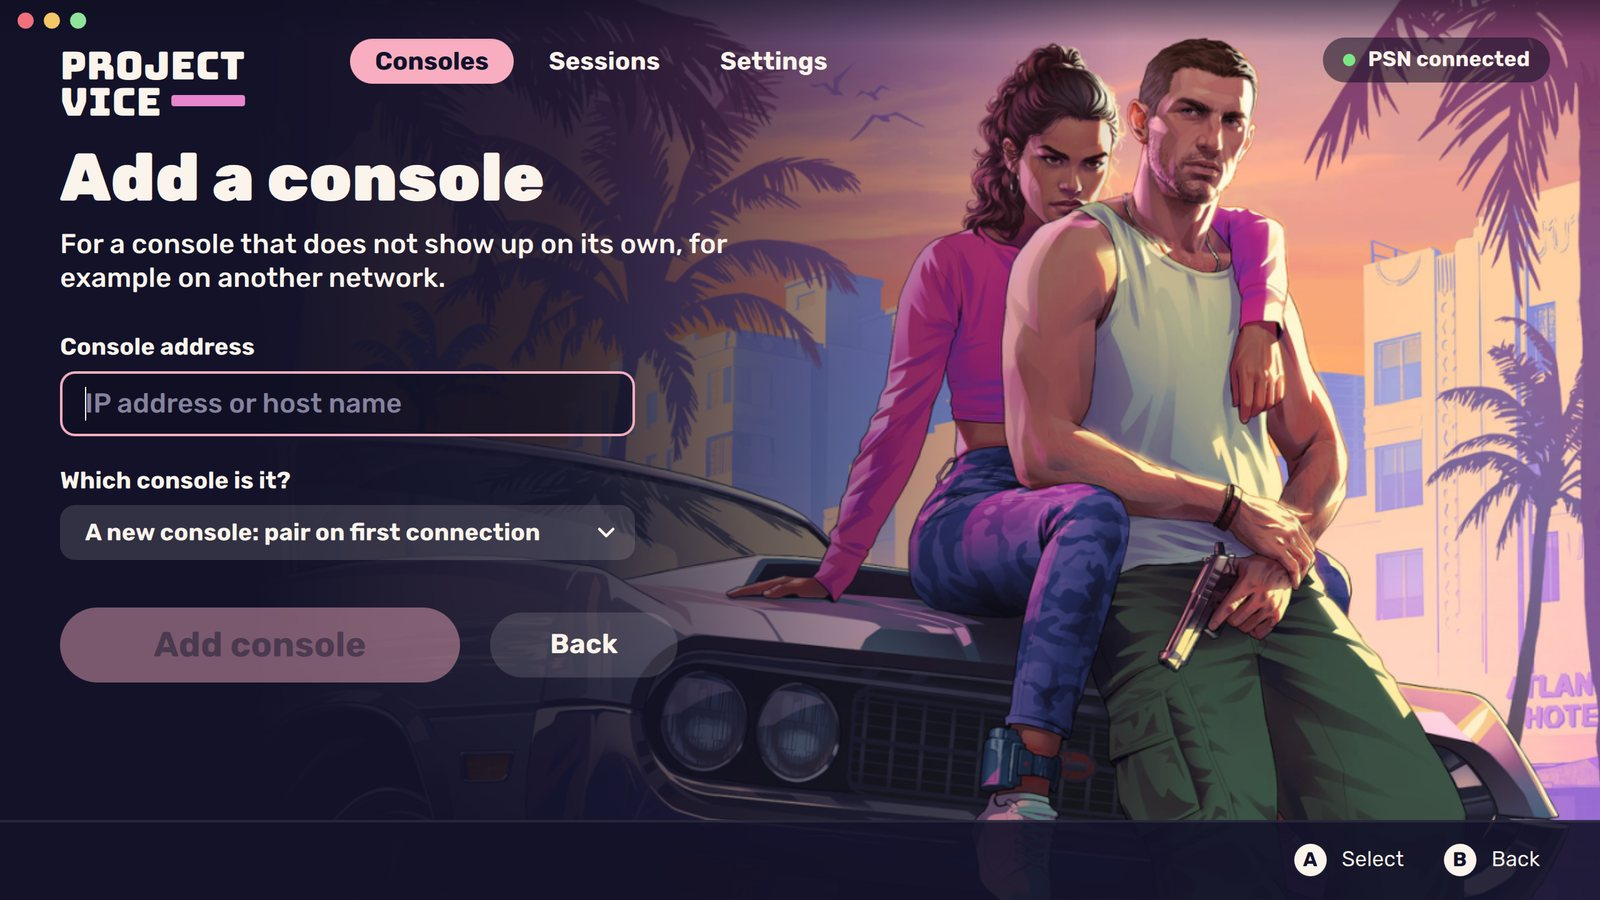
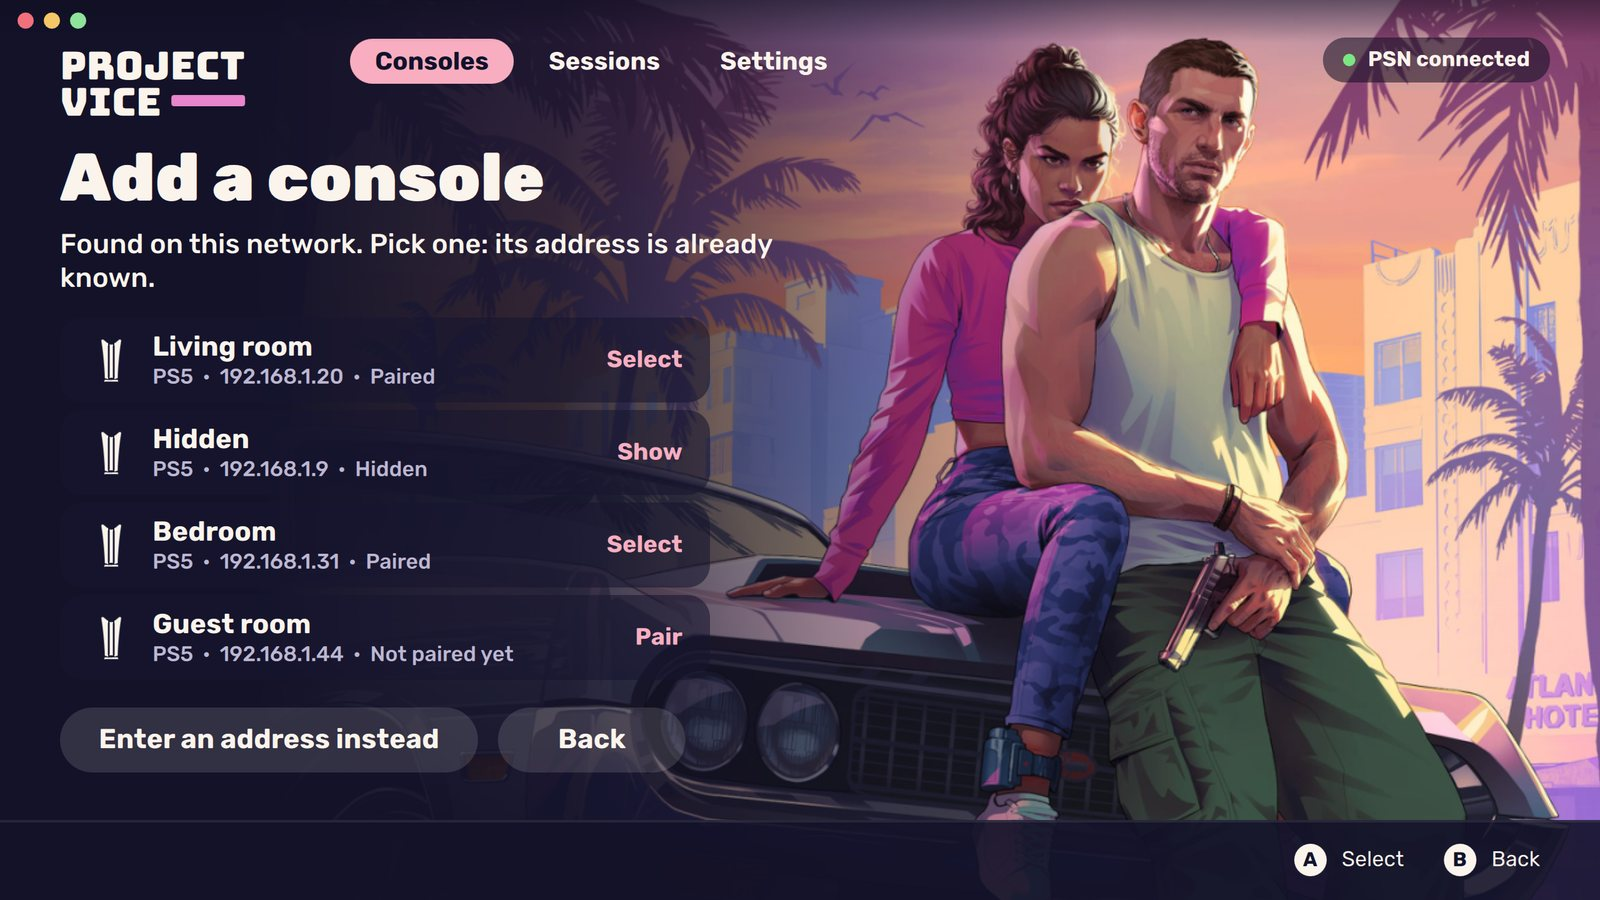
Pick consoles and their addresses from discovery when pairing and adding

Changed region(s): [[0.0312, 0.3422, 0.4688, 0.8711], [0.0312, 0.2489, 0.5, 0.3422]]

diff --git a/gui/src/qml/vice/screens/Pair.qml b/gui/src/qml/vice/screens/Pair.qml
@@ -15,13 +15,64 @@ V.Page {
     property string host
     property bool ps5: true
 
+    // Consoles found on this network. The address comes from discovery, so
+    // the usual case needs no typing; "Enter an address" is the way out for
+    // a console on another network. The list is replaced only when it really
+    // changes, so discovery refreshes do not disturb the drop-down.
+    property var found: []
+    property string foundSignature
+    property bool manual: false
+    property string chosen
+    readonly property var chosenConsole: found.find(f => f.address === chosen) || null
+    readonly property string address: manual ? hostField.text.trim() : chosen
+
+    function refreshFound() {
+        const list = Vice.found(Chiaki.hosts);
+        const signature = list.map(f => f.address + f.name + f.registered).join("|");
+        if (signature === foundSignature)
+            return;
+        foundSignature = signature;
+        found = list;
+        if (!manual && !chosenConsole)
+            pick(list.find(f => !f.registered) || list[0] || null);
+        Qt.callLater(syncConsoleBox);
+    }
+    function pick(console_) {
+        if (!console_) {
+            manual = true;
+            chosen = "";
+            return;
+        }
+        manual = false;
+        chosen = console_.address;
+        ps5 = console_.ps5;
+    }
+    function syncConsoleBox() {
+        consoleBox.currentIndex = manual ? found.length : Math.max(0, found.findIndex(f => f.address === chosen));
+    }
+    Component.onCompleted: {
+        const list = Vice.found(Chiaki.hosts);
+        foundSignature = list.map(f => f.address + f.name + f.registered).join("|");
+        found = list;
+        // An address handed in wins; the broadcast address means "whichever console answers"
+        const given = host && host !== "255.255.255.255" ? list.find(f => f.address === host) : null;
+        if (given)
+            pick(given);
+        else if (host && host !== "255.255.255.255")
+            manual = true;
+        else
+            pick(list.find(f => !f.registered) || list[0] || null);
+        syncConsoleBox();
+    }
+    Connections { target: Chiaki; function onHostsChanged() { pair.refreshFound() } }
+
     // idle | pairing | failed | done
     property string phase: "idle"
     property string failure
     property string accountId: Chiaki.settings.psnAccountId
     readonly property bool usesOnlineId: typeBox.target === 800
     readonly property bool hasAccount: usesOnlineId ? onlineIdField.text.trim().length > 0 : accountId.trim().length > 0
-    readonly property bool valid: hostField.text.trim().length > 0 && pin.complete && hasAccount && loginPin.acceptableInput
+    readonly property bool valid: address.length > 0 && pin.complete && hasAccount && loginPin.acceptableInput
     property int op: 0
 
     tab: "consoles"
@@ -35,7 +86,7 @@ V.Page {
     function submit() {
         if (!valid || phase === "pairing")
             return;
-        const address = hostField.text.trim();
+        const address = pair.address;
         const id = Vice.beginOp("pair");
         op = id;
         failure = "";
@@ -207,10 +258,26 @@ V.Page {
                 }
 
                 Field {
+                    label: pair.found.length ? qsTr("Console, found on this network") : qsTr("Console")
+                    V.Dropdown {
+                        id: consoleBox
+                        width: Theme.px(pair.manual ? 220 : 330)
+                        font.pixelSize: Theme.textLabel
+                        model: pair.found.map(f => Chiaki.settings.streamerMode ? f.name : f.name + "  ·  " + f.address).concat([qsTr("Enter an address")])
+                        onActivated: (index) => {
+                            pair.pick(index < pair.found.length ? pair.found[index] : null);
+                            if (pair.manual)
+                                hostField.forceActiveFocus(Qt.TabFocusReason);
+                        }
+                        Accessible.name: qsTr("Console")
+                    }
+                }
+                Field {
+                    visible: pair.manual
                     label: qsTr("Console address")
                     V.TextInput {
                         id: hostField
-                        width: Theme.px(230)
+                        width: Theme.px(190)
                         implicitHeight: Theme.controlHeight
                         font.pixelSize: Theme.textBody
                         text: pair.host
@@ -219,14 +286,16 @@ V.Page {
                     }
                 }
                 Field {
-                    label: qsTr("Console")
+                    label: qsTr("Type")
                     V.Dropdown {
                         id: typeBox
                         readonly property var targets: [1000100, 1000, 900, 800]
                         readonly property int target: targets[currentIndex]
-                        width: Theme.px(220)
-                        model: [qsTr("PS5"), qsTr("PS4, system 8.0 or later"), qsTr("PS4, system 7.0 to 7.5"), qsTr("PS4, before 7.0")]
+                        width: Theme.px(pair.manual ? 150 : 190)
+                        model: [qsTr("PS5"), qsTr("PS4, 8.0 or later"), qsTr("PS4, 7.0 to 7.5"), qsTr("PS4, before 7.0")]
                         currentIndex: pair.ps5 ? 0 : 1
+                        // Follows the console that was picked; still changeable for older PS4 systems
+                        Connections { target: pair; function onPs5Changed() { typeBox.currentIndex = pair.ps5 ? 0 : 1 } }
                         font.pixelSize: Theme.textLabel
                         Accessible.name: qsTr("Console type")
                     }
@@ -235,7 +304,7 @@ V.Page {
                     label: qsTr("Login PIN, if set")
                     V.TextInput {
                         id: loginPin
-                        width: Theme.px(150)
+                        width: Theme.px(pair.manual ? 120 : 150)
                         implicitHeight: Theme.controlHeight
                         font.pixelSize: Theme.textBody
                         echoMode: TextInput.Password

diff --git a/gui/src/qml/+vice/ManualHostDialog.qml b/gui/src/qml/+vice/ManualHostDialog.qml
@@ -12,7 +12,7 @@ V.Page {
 
     tab: "consoles"
     showStatus: false
-    initialFocus: hostField
+    initialFocus: manual ? hostField : null
     artwork.fadeLeft: 0.7
     onBack: root.closeDialog()
 
@@ -26,6 +26,35 @@ V.Page {
         return out;
     }
     readonly property bool valid: hostField.text.trim().length > 0
+
+    // Consoles discovery has found, with their addresses. Shown first: picking
+    // one needs no typing. Typing an address is for a console on another network.
+    property var found: []
+    property string foundSignature
+    property bool manual: false
+    function refreshFound() {
+        const list = Vice.found(Chiaki.hosts);
+        const signature = list.map(f => f.address + f.name + f.registered + f.hidden).join("|");
+        if (signature === foundSignature)
+            return;
+        foundSignature = signature;
+        found = list;
+    }
+    Component.onCompleted: { refreshFound(); manual = found.length === 0 }
+    Connections { target: Chiaki; function onHostsChanged() { page.refreshFound() } }
+
+    function use(console_) {
+        if (console_.hidden && console_.mac)
+            Chiaki.unhideHost(console_.mac);
+        Vice.selectedConsole = console_.key;
+        root.closeDialog();
+        if (!console_.registered) {
+            // Straight on to pairing, with the address already known
+            const entry = Vice.consoles(Chiaki.hosts).find(c => c.key === console_.key);
+            if (entry)
+                root.connectOrPair(entry);
+        }
+    }
 
     function add() {
         if (!valid)
@@ -51,8 +80,78 @@ V.Page {
             width: parent.width
             wrapMode: Text.Wrap
             font.pixelSize: Theme.textHeading
-            text: qsTr("For a console that does not show up on its own, for example on another network.")
+            text: page.manual ? qsTr("For a console that does not show up on its own, for example on another network.")
+                : qsTr("Found on this network. Pick one: its address is already known.")
         }
+
+        // ---- Found automatically ---------------------------------------------------
+        Column {
+            visible: !page.manual
+            width: parent.width
+            spacing: Theme.px(6)
+            topPadding: Theme.px(10)
+
+            Repeater {
+                model: page.found
+                V.Panel {
+                    id: row
+                    required property var modelData
+                    width: Theme.px(520)
+                    height: Theme.px(68)
+                    activeFocusOnTab: true
+                    color: activeFocus && Theme.keyboardNav ? Theme.highlight : Theme.surfaceSoft
+                    Accessible.role: Accessible.Button
+                    Accessible.name: modelData.name
+
+                    Keys.onReturnPressed: page.use(modelData)
+                    Keys.onPressed: (event) => Theme.navKey(row, event, false)
+                    TapHandler { onTapped: page.use(row.modelData) }
+                    V.FocusRing { active: row.activeFocus }
+
+                    V.Icon { x: Theme.px(22); anchors.verticalCenter: parent.verticalCenter; name: Vice.consoleIcon(row.modelData.ps5 ? "PS5" : "PS4"); size: Theme.px(38) }
+                    Column {
+                        x: Theme.px(74)
+                        anchors.verticalCenter: parent.verticalCenter
+                        V.Label { text: row.modelData.name; font.pixelSize: Theme.textHeading; font.weight: Theme.weightButton }
+                        V.Label {
+                            font.pixelSize: Theme.textLabel
+                            color: Theme.textMuted
+                            text: [row.modelData.ps5 ? "PS5" : "PS4", Chiaki.settings.streamerMode ? "" : row.modelData.address,
+                                   row.modelData.hidden ? qsTr("Hidden") : row.modelData.registered ? qsTr("Paired") : qsTr("Not paired yet")].filter(t => t).join("  ·  ")
+                        }
+                    }
+                    V.Label {
+                        anchors { right: parent.right; rightMargin: Theme.px(22); verticalCenter: parent.verticalCenter }
+                        text: row.modelData.hidden ? qsTr("Show") : row.modelData.registered ? qsTr("Select") : qsTr("Pair")
+                        font.weight: Theme.weightStrong
+                        color: Theme.pink
+                    }
+                }
+            }
+
+            Item { width: 1; height: Theme.px(10) }
+
+            Row {
+                spacing: Theme.unit * 2
+                V.Button {
+                    kind: "outline"
+                    text: qsTr("Enter an address instead")
+                    onTriggered: { page.manual = true; hostField.forceActiveFocus(Qt.TabFocusReason) }
+                }
+                V.Button {
+                    kind: "outline"
+                    width: Theme.px(150)
+                    text: qsTr("Back")
+                    onTriggered: page.back()
+                }
+            }
+        }
+
+        // ---- By address --------------------------------------------------------------
+        Column {
+            visible: page.manual
+            width: parent.width
+            spacing: Theme.px(8)
 
         Item { width: 1; height: Theme.px(14) }
 
@@ -95,9 +194,10 @@ V.Page {
                 anchors.verticalCenter: parent.verticalCenter
                 kind: "outline"
                 width: Theme.px(150)
-                text: qsTr("Back")
-                onTriggered: page.back()
+                text: page.found.length ? qsTr("Found consoles") : qsTr("Back")
+                onTriggered: page.found.length ? page.manual = false : page.back()
             }
+        }
         }
     }
 }

diff --git a/gui/vice-preview/preview.qml b/gui/vice-preview/preview.qml
@@ -81,7 +81,9 @@ Window {
         "psn-pending": () => { Chiaki.settings.psnAuthToken = ""; Chiaki.psnOutcome = "hang"; ui.showPSNTokenDialog("", false); later(() => stackItem().submit("https://example.invalid/redirect")) },
         "psn-failed": () => { Chiaki.settings.psnAuthToken = ""; Chiaki.psnOutcome = "fail"; ui.showPSNTokenDialog("", false); later(() => stackItem().submit("https://example.invalid/redirect")) },
         "psn-lookup": () => { Chiaki.settings.psnAccountId = ""; ui.showRegistDialog("192.168.1.20", true); later(() => stackItem().lookUp()) },
-        "add-console": () => { ui.showManualHostDialog() },
+        "add-console": () => { Chiaki.hosts = Chiaki.sampleHosts; ui.showManualHostDialog() },
+        "add-console-manual": () => { Chiaki.hosts = []; ui.showManualHostDialog() },
+        "pair-manual": () => { Chiaki.hosts = []; ui.showRegistDialog("255.255.255.255", true) },
         "console-pin": () => { ui.showConsolePinDialog(0) },
         "psn-connecting": () => { ui.showPsnView() },
         "check": () => { ui.showConnectionCheck(entry("Living room")) },

diff --git a/gui/src/qml/vice/Vice.qml b/gui/src/qml/vice/Vice.qml
@@ -91,6 +91,18 @@ QtObject {
         }
         return out;
     }
+    // Consoles the app has found on this network, hidden ones included, each
+    // with the address discovery reported for it. Nobody has to type these.
+    function found(hosts) {
+        const out = [];
+        for (let i = 0; i < hosts.length; ++i) {
+            const host = hosts[i];
+            if (host.discovered && host.address)
+                out.push({ index: i, key: host.mac || host.address, name: host.name, address: host.address, ps5: host.ps5 !== false,
+                           registered: host.registered === true, hidden: host.display === false, mac: host.mac || "", state: stateOf(host) });
+        }
+        return out;
+    }
     function stateOf(host) { return host.state === "ready" ? "on" : host.state === "standby" ? "rest" : "off" }
     function consoleIcon(type) { return type === "PS4" ? "console4" : "console" }
     function typeOf(host) { return host.ps5 === undefined ? "" : host.ps5 ? "PS5" : "PS4" }

diff --git a/gui/vice-preview/org/streetpea/chiaking/Chiaki.qml b/gui/vice-preview/org/streetpea/chiaking/Chiaki.qml
@@ -140,6 +140,7 @@ QtObject {
     function wakeUpHost(index, name) { console.log("wakeUpHost", index, name) }
     function deleteHost(index) { console.log("deleteHost", index) }
     function hideHost(mac, name) { console.log("hideHost", mac, name) }
+    function unhideHost(mac) { console.log("unhideHost", mac) }
     function refreshPsnToken() { console.log("refreshPsnToken") }
     function registerHost(host, psnId, pin, cpin, broadcast, target, callback) {
         // The PIN is never logged, here or in the app

diff --git a/VICE.md b/VICE.md
@@ -12,7 +12,7 @@ Every screen below is real QML bound to the existing backend (`Chiaki`, its sett
 | --- | --- |
 | Home | Console discovery, on / rest / not-found states, connect, pair, wake, add, hide or remove. The chosen console is remembered across discovery refreshes. Empty, searching and search-off states. |
 | PSN sign-in | Replaces upstream's two sign-in dialogs with one page: sign in through your browser, sign in inside the app where Qt WebEngine is present, or look the account ID up by username. The calls into the backend are upstream's. |
-| Add console, console login PIN | Vice pages over the same backend calls. |
+| Add console, console login PIN | Vice pages over the same backend calls. Add console lists what discovery found on the network, addresses included, so the usual case is a pick, not typing; an address can still be entered for a console on another network. Pairing takes its console and address the same way. |
 | Play from anywhere | A guide with the actions beside each step: PSN sign-in, or port forwarding with the ports upstream documents, then adding the console by address. Reached from Settings, Network and from the account button. |
 | Shortcuts | A Settings page listing the keyboard and controller shortcuts the app really has. |
 | Pair console | Replaces upstream's register dialog and calls the same `registerHost`. PSN sign-in and lookup reuse upstream's pages. 8-digit code entry with paste, backspace and controller entry. Success is reported only when the console accepts the code. |
